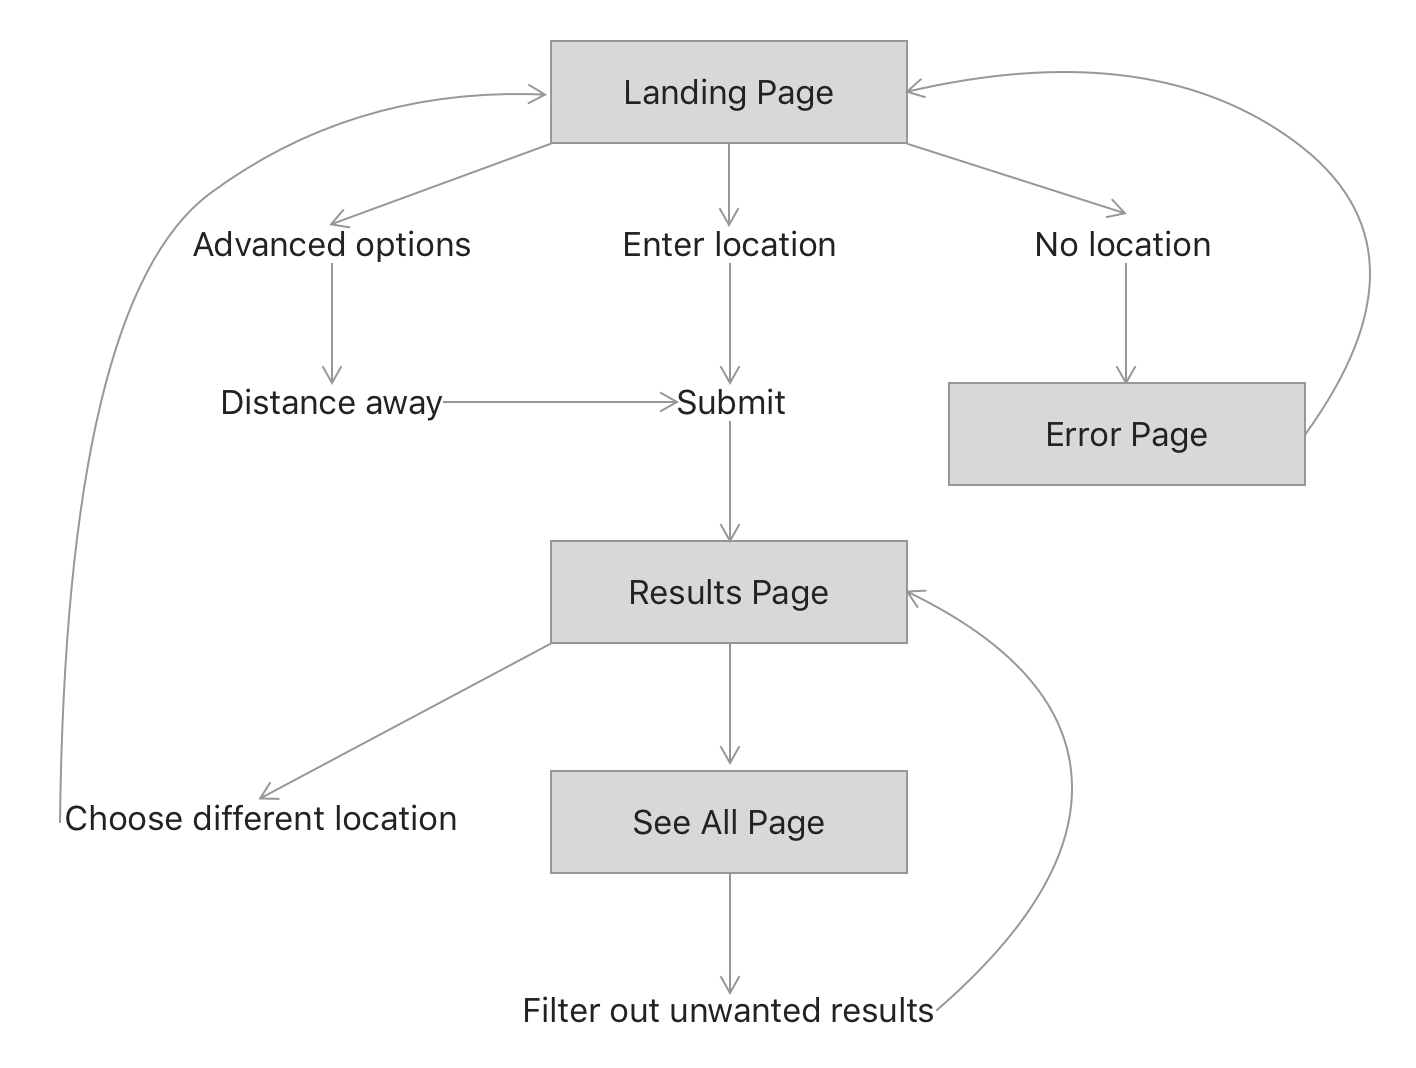
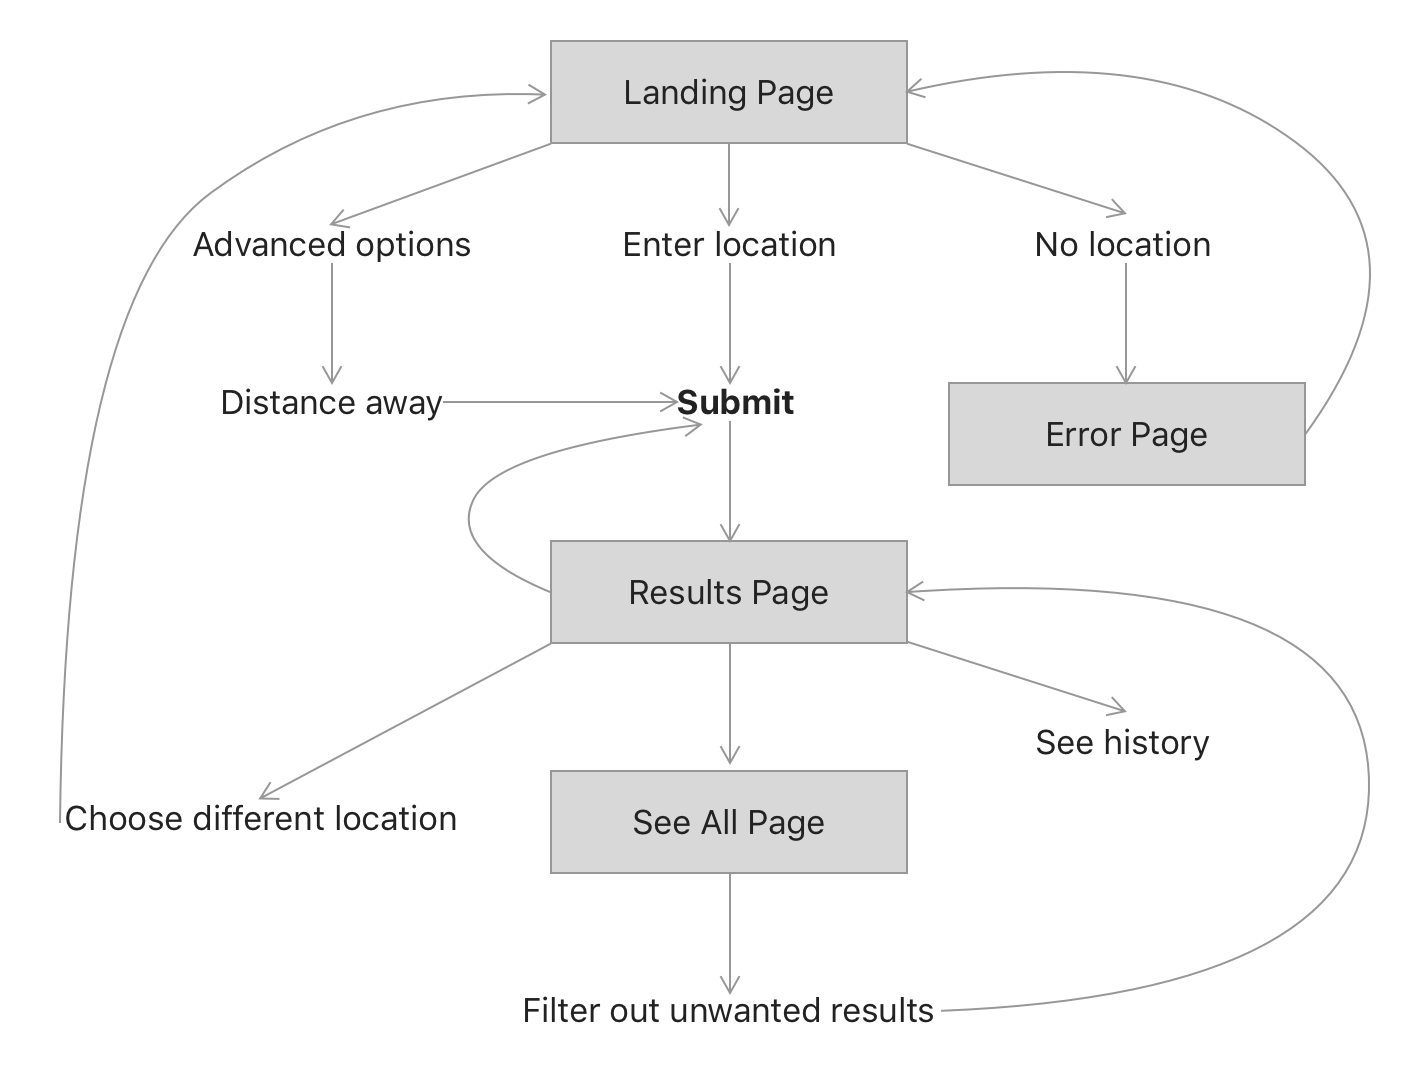
wwgfbt case study

Changed region(s): [[0.7147, 0.6489, 0.8701, 0.7107], [0.4661, 0.3708, 0.5593, 0.4017], [0.7147, 0.618, 0.7458, 0.6489]]

diff --git a/wwgfbt.html b/wwgfbt.html
@@ -63,12 +63,6 @@
         <ul>
           <li>Bubble tea place is based on location</li>
           <li>Return a random bubble tea shop based on the location</li>
-
-
-          <li>Able to change the place if vetoed by group</li>
-          <li>Know the location and rating of the place</li>
-          <li>Filter out options that nobody likes</li>
-          <li>See a list of all surrounding bubble tea shops</li>
         </ul><br>
       </section>
 
@@ -78,7 +72,7 @@
 
         <div class="caption-pic">
           <img class="casestudy-pic" src="img/casestudy/wwgfbt/prototype1.png" alt="user flow"><br>
-          <span class="caption">first prototype</span>
+          <span class="caption">First prototype</span>
         </div>
 
         <p>Design Principles</p>
@@ -98,158 +92,49 @@
           <li>Can the user find bubble tea shops around their area?</li>
           <li>Is the tool intuitive to use?</li>
           <li>Does it actually assist in the decision making?</li>
-        </ul>
+        </ul><br>
+
+        <p>Key Findings</p>
+        <ul>
+          <li>Users want more information up front. It was annoying to have to go to Yelp to see the location and the star ratings.</li>
+          <li>Mistakes happen often when clicking the submit button quickly.</li>
+          <li>Some of the shops that showed up were never in consideration as an option.</li>
+        </ul><br>
 
       </section>
 
-      <section class="requirements">
-        <h3 class="casestudy-header">Requirements & Objectives</h3>
-        <p>After the client and user interviews, we then defined the requirements of each page on the site as well as objectives.</p><br>
-
-        <p>Client Objectives</p>
-        <ul>
-          <li>Make customers feel confident that this product is useful and could actually solve their problems</li>
-          <li>Increase explanations of products functions using images and diagrams</li>
-          <li>Create a brand/image for their company that is consistent with all products (new and old)</li>
-          <li>25% of the site devoted to branding, 25% of the site devoted to customer service, 50% of the site devoted to sales</li>
-          <li>Make the site convenient and clean as well as interesting</li>
-          <li>Overall goal to increase conversion rate</li>
-        </ul><br>
-
-        <p>Audience Objectives</p>
-        <ul>
-          <li>Fully understand how this product works</li>
-          <li>Easily contact customer service if they have any questions</li>
-          <li>Know all functions that the Click N Dig includes - can it be attached to a phone? Does it flash?</li>
-          <li>Easy to navigate and find the information</li>
-          <li>Understand prices and packages before buying</li>
-          <li>Overall goal is to find enough information to determine if the product fits the need</li>
-        </ul>
-      </section>
-
-      <section class="companalysis">
-        <h3 class="casestudy-header">Competitive Analysis</h3><br>
-        <p>Before we began our design, we took a look at some competitors, to see how they structures their website as well as presented their information.</p><br>
-
-        <table class="table">
-          <thead>
-            <tr>
-              <th scope="col">Competitor</th>
-              <th scope="col">Branding</th>
-              <th scope="col">Functionality</th>
-              <th scope="col">Content</th>
-              <th scope="col">Architecture</th>
-              <th scope="col">Navigation</th>
-              <th scope="col">Design</th>
-            </tr>
-          </thead>
-          <tbody class="supporting-text">
-            <tr>
-              <th scope="row">Competitor 1</th>
-              <td>Simple with a bold logo and accents of blue. Site uses rich imagery.</td>
-              <td>Messy organization but straightforward tabs and labels.</td>
-              <td>Minimal and efficient explanations. Includes videos and images.</td>
-              <td>Basic pages and layout. Keeps all information on one scrolling page.</td>
-              <td>Uses an easy and clean menu but lacks necessary search navigation.</td>
-              <td>A little disorganized but keeps branding consistent and menus easy to navigate.</td>
-            </tr>
-            <tr>
-              <th scope="row">Competitor 2</th>
-              <td>Most information can be found through landing page; bland, woody color palette.</td>
-              <td>Works very well; help and faq are well implemented, and online store works seamlessly.</td>
-              <td>Interesting pages, including “stories”, which are short blog posts about the product</td>
-              <td>All information can be found via landing page; Most pages headed by jumbotron.</td>
-              <td>Navigation is seamless, but different options on desktop and mobile.</td>
-              <td>Bland, only employing the use of white/brown. Uses pictures/text placement well.</td>
-            </tr>
-            <tr>
-              <th scope="row">Competitor 3</th>
-              <td>Clean and minimal with black/white theme and blue accent.</td>
-              <td>Simple contact form, Buy now buttons on the middle of the page right when you land on site.</td>
-              <td>Contact and social media links conveniently at footer of every page.</td>
-              <td>Well organized information on the landing page.</td>
-              <td>Simple navigation hiding from the right side.</td>
-              <td>Minimal and clean. Great use of space and font choice.</td>
-            </tr>
-            <tr>
-              <th scope="row">Competitor 4</th>
-              <td>Clean and minimalistic design, but lack of branding because it does not focus on logo.</td>
-              <td>Informative and responsive for the shopping site.</td>
-              <td>Text-heavy and not useful. Lack of illustration to make audiences better understand.</td>
-              <td>One page scrolling, a little boring and messy overall.</td>
-              <td>Clean and simple, however lack of navigations for some important content.</td>
-              <td>Minimalistic, suitable for all ages.</td>
-            </tr>
-          </tbody>
-        </table><br>
-
-        <p>Takeaways</p>
-        <ul>
-          <li>Best to keep the site clean and intuitive with organized sections of information</li>
-          <li>Demonstrate an overall brand in all parts of the site - keep it consistent</li>
-          <li>Do not forget to add a search function in both the products and FAQ pages</li>
-          <li>Use images with meaning</li>
-        </ul><br>
-
-        <p>Good Ideas</p>
-        <ul>
-          <li>Using diagrams/illustrations to show the functions of the device</li>
-          <li>Creating an in depth FAQ’s, customer service page, and about page</li>
-          <li>Use a fresh and simple image on the home page</li>
-          <li>Get rid of the red/orange/black brand colors (find a unique branding)</li>
-          <li>Less clutter, more to the point</li>
-        </ul><br>
-
-        <p>Mood Board</p>
-        <div class="caption-pic">
-          <img class="casestudy-pic" src="img/casestudy/cnd/moodboard.png" alt="clickndig moodboard"><br>
-          <span class="caption">Moodboard created from client preferences and competitor inspiration</span>
-        </div>
-      </section>
-
-      <section class="lofi-prototype">
-        <h3 class="casestudy-header">Prototyping</h3><br>
-        <div class="caption-pic">
-          <img class="casestudy-pic" src="img/casestudy/cnd/sitearchitecture.png" alt="clickndig architecture"><br>
-          <span class="caption">Site Architecture</span>
-        </div>
-
-        <p>We first outlined the site architecture and I created lo-fidelity screen prototypes on Balsamiq using the mobile-first appreach.</p><br>
+      <section class="testing">
+        <h3 class="casestudy-header">Iteration</h3><br>
+        <p>For our second iteration, I redefined our requirements and outlined a new user flow along with adjusting the InVision prototype.</p>
+        <p>A working prototype can be found <a href="https://projects.invisionapp.com/share/SAPRGBGHZPB#/screens/338511626">here</a></p>
 
         <div class="caption-pic">
-          <img class="casestudy-pic" src="img/casestudy/cnd/lofiprototype.png" alt="clickndig lofi prototype"><br>
-          <span class="caption">Balsamiq prototypes</span>
+          <img class="casestudy-pic" src="img/casestudy/wwgfbt/userflow.png" alt="user flow"><br>
+          <span class="caption">Redefined user flow</span>
         </div>
 
-        <p>After going over the architecture and site layout with the client, we came back with some key points to iterate on.</p>
-         <ul>
-          <li>The home page is the page we needed to put the most focus on</li>
-          <li>Need a way to really show functionality and how the product is used</li>
-          <li>Provide social proof of the product through the amazon reviews</li>
-        </ul><br>
-
-        <div class="caption-pic">
-          <img class="casestudy-pic" src="img/casestudy/cnd/iteration1.png" alt="clickndig iteration 1"><br>
-          <span class="caption">Iteration 1 prototype</span>
-        </div>
-
-        <p>The feedback we received with this iteration was really to focus on making it easier for the user to buy the product and push for conversion rates. With this in mind, we made the following deicisions</p>
+        <p>Additions to the requirements</p>
         <ul>
-          <li>Move the navigation to the left and add a shopping cart button at the top right so the user can access the card from any page</li>
-          <li>Add more reviews for the product and include direct link to the product page on Amazon</li>
+          <li>Bubble tea place is based on location</li>
+          <li>Return a random bubble tea shop based on the location</li>
+          <li>Able to change the place if vetoed by group</li>
+          <li>Know the location and rating of the place</li>
+          <li>Filter out options that nobody likes</li>
+          <li>See a list of all surrounding bubble tea shops</li>
+          <li>See a history of the shops already shown</li>
         </ul><br>
+
+
       </section>
 
-      <section class="final-design">
-        <h3 class="casestudy-header">Final Design</h3><br>
-        <img src="img/casestudy/cnd/cndheader.png" alt="clickndig header image" width="100%"><br><br>
-        <a href="https://clickndig-potato.herokuapp.com/home.html" style="color: #222222;">View final design →</a>
-      </section>
+      <section class="Release">
+        <h3 class="casestudy-header">Development & Release</h3>
+        <p>For the initial release, we wanted to focus on a minimum viable product first and add on more complex features as we go on. My main contribution to this part was getting the front-end ready for data population.</p>
+        <p>Since all of the team members were working remotely, I had a Slack workspace set up as well as assigneed tasks through Trello. This helped us keep organized and made sure people were not working on the same thing. At the end of one week, we had all the basic functionality working and are currently slowly releasing the more customizable features.</p><br>
 
-      <section class="final-design">
-        <h3 class="casestudy-header">Learnings</h3><br>
-        <p>Overall, this project was a great learning experience for me. It was my first time working with an actual client with a real product as well as working with the ecommerce industry. Designing in this aspect meant that I had to take into account not only the user's needs, but also the business needs of the client. If given more time with this project, I would have loved to help define measurements of success and continue iterating to further increase the conversion rate.</p>
-      </section>
+        <h3 class="casestudy-header">Release</h3><br>
+        <img src="img/casestudy/wwgfbt/wwgfbtheader.png" alt="wwgfbt header image" width="100%"><br><br>
+        <a href="https://wwgfbt.com" style="color: #222222;">View website →</a>
     </div>
 
 

diff --git a/index.html b/index.html
@@ -78,8 +78,8 @@
         <div class="row work-object" id="wwgfbt-section">
             <div class="col-md-8 vert-center">
               <h1>WWGFBT</h1>
-              <p>Tool for discovering and deciding which bubble tea shop to go to. <br>(Case study under construction)</p>
-              <a href="http://www.wwgfbt.com" target="_blank"><button type="button" class="work-link">View website →</button></a>
+              <p>Tool for discovering and deciding which bubble tea shop to go to.</p>
+              <a href="./wwgfbt.html" target="_blank"><button type="button" class="work-link">View case study →</button></a>
           </div>
           <div class="col-md-4">
             <object data="img/wwgfbt.svg" type="image/svg+xml"></object>
